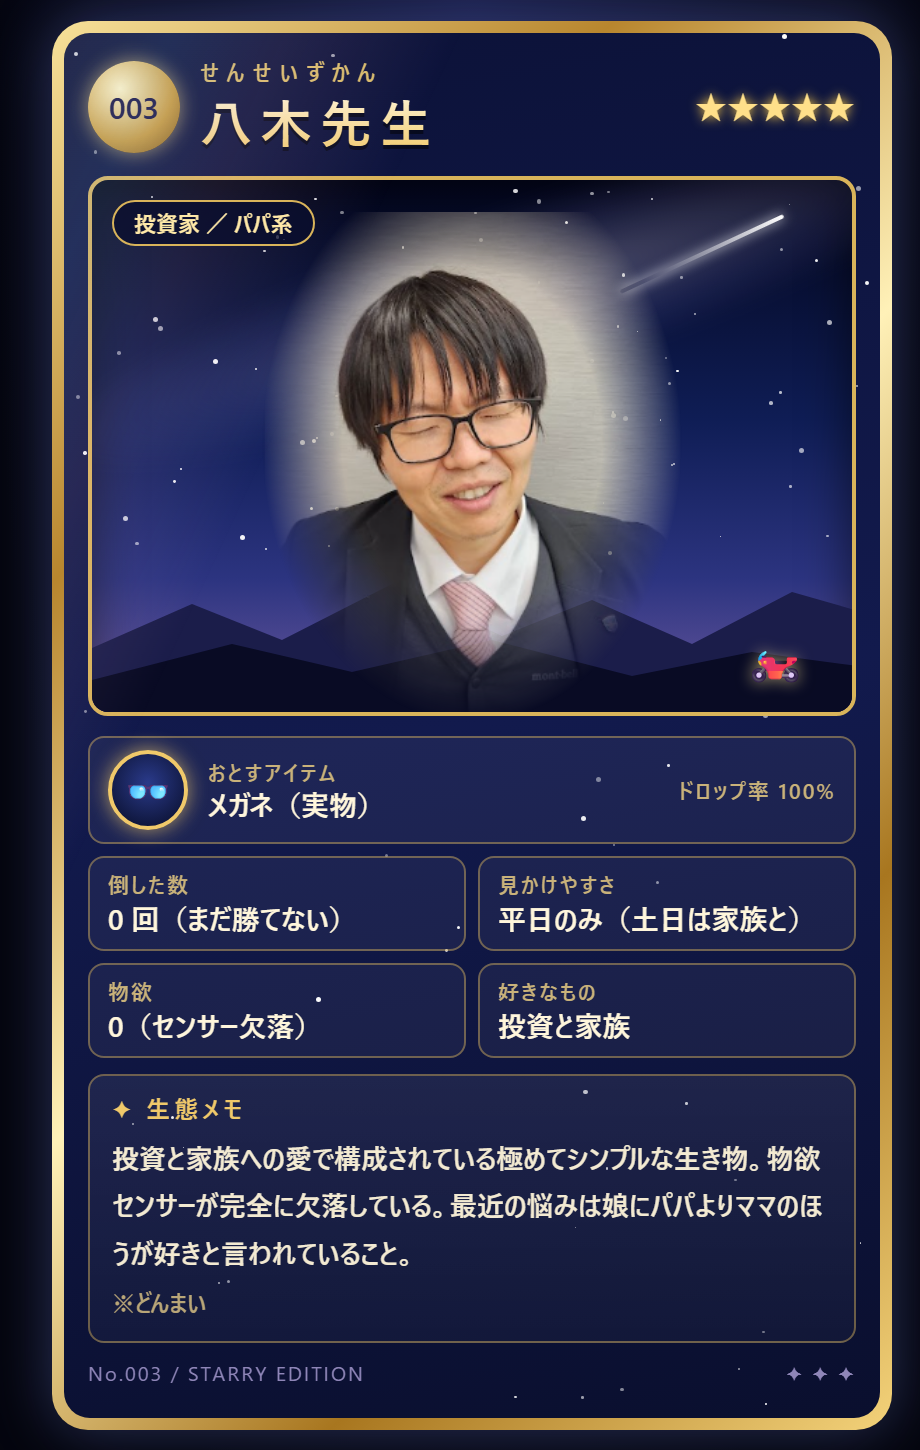
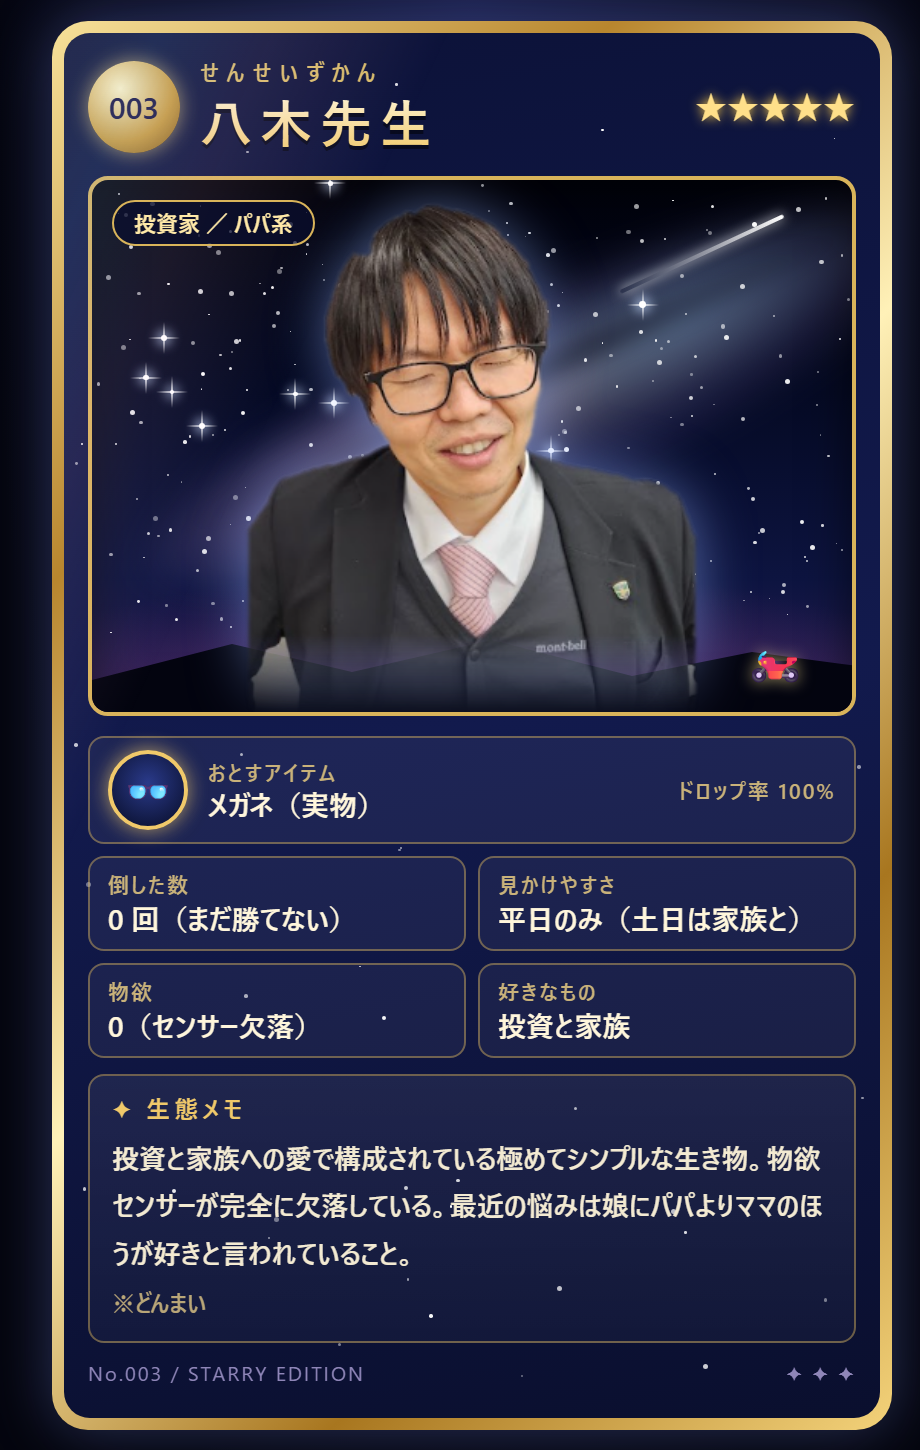
Add art and profiles for all 8 teachers, add 加藤先生
- Starry 図鑑 cards and cut-out battle sprites for every teacher
  (new realistic sky, cut-outs replace the gray photo halo)
- Intro text, voice lines and each teacher's own drop item
- New 8th teacher 加藤先生 (item 手挽きコーヒーミル, 合言葉 こーひー)

Changed region(s): [[0.0913, 0.1241, 0.9435, 0.4966], [0.3348, 0.1241, 0.3652, 0.1552]]

diff --git a/app/game-data.ts b/app/game-data.ts
@@ -36,13 +36,14 @@ export type ItemDef = {
 export const ITEMS: ItemDef[] = [
   { id: "candy", name: "ふしぎなアメ", emoji: "🍬", rarity: "N", description: "どの先生もポケットに入れている。" },
   { id: "badge", name: "探検家バッジ", emoji: "📛", rarity: "N", description: "会場を歩き回った証。" },
-  { id: "whistle", name: "ホイッスル", emoji: "📯", rarity: "R", description: "ピッと鳴らすと背筋がのびる。" },
+  { id: "whistle", name: "睡眠薬", emoji: "⚡", rarity: "R", description: "どう見てもエナジードリンク。なぜか大澤先生にはよく効く。" },
   { id: "flask", name: "メガネ", emoji: "👓", rarity: "R", description: "八木先生が実際にかけているメガネ。" },
-  { id: "compass", name: "コンパス", emoji: "🧭", rarity: "R", description: "きれいな円が描ける。" },
-  { id: "apron", name: "エプロン", emoji: "🧺", rarity: "R", description: "ほんのりカレーのにおいがする。" },
-  { id: "brush", name: "書道の筆", emoji: "🖌", rarity: "R", description: "とめ・はね・はらい。" },
-  { id: "passport", name: "パスポート", emoji: "🛂", rarity: "R", description: "どこへでも行けそうな気がする。" },
+  { id: "compass", name: "ビデオカメラ", emoji: "📹", rarity: "R", description: "柴田先生の相棒。何を撮っているのかは謎。" },
+  { id: "apron", name: "ペンライト", emoji: "💖", rarity: "R", description: "大橋先生の推し活の必需品。" },
+  { id: "brush", name: "愛犬のキーホルダー", emoji: "🐕", rarity: "R", description: "鈴木先生の愛犬、ボーダーコリー2匹のキーホルダー。" },
+  { id: "passport", name: "息子の大切なおもちゃ", emoji: "🚂", rarity: "R", description: "二村先生の息子さんの宝物。大事にあつかおう。" },
   { id: "wrench", name: "星空の写真", emoji: "🌌", rarity: "R", description: "狩野先生がドライブ先で撮った一枚。" },
+  { id: "coffee-mill", name: "手挽きコーヒーミル", emoji: "☕", rarity: "R", description: "加藤先生の優雅な時間はここから始まる。" },
   { id: "crown", name: "教頭の王冠", emoji: "👑", rarity: "SR", description: "選ばれし探検家だけが手にする。" },
 ];
 
@@ -82,9 +83,12 @@ export const BOSSES: BossDef[] = [
     attackPercent: 8,
     gold: [30, 50],
     drops: drops("brush"),
-    description: "（紹介文を入れてください）",
-    voice: "（セリフを入れてください）",
+    description:
+      "2匹のボーダーコリーを愛する無類の動物好き。シルエットゆえに、見つけづらいと言われており、構内での目撃情報は貴重。",
+    voice: "うちのボーダーコリー、2匹ともかわいいんですよ。",
     skill: { name: "言霊", description: "攻撃力が上がる", boostPerLevel: { attack: 2 } },
+    image: "/teachers/suzuki.png",
+    card: "/teachers/suzuki-card.png",
   },
   {
     id: "osawa",
@@ -95,9 +99,12 @@ export const BOSSES: BossDef[] = [
     attackPercent: 10,
     gold: [30, 50],
     drops: drops("whistle"),
-    description: "（紹介文を入れてください）",
-    voice: "（セリフを入れてください）",
+    description:
+      "毎日Red bullを一本注入して稼働している。しかし、翼を授かったまま普通に熟睡できることが判明。カフェインへの耐性はS+。",
+    voice: "一本飲んだので、今からちょっと寝ます。",
     skill: { name: "全力ダッシュ", description: "回避が速くなる", boostPerLevel: { dodgeCooldownMs: -250 } },
+    image: "/teachers/osawa.png",
+    card: "/teachers/osawa-card.png",
   },
   {
     id: "yagi",
@@ -124,9 +131,12 @@ export const BOSSES: BossDef[] = [
     attackPercent: 9,
     gold: [30, 50],
     drops: drops("apron"),
-    description: "（紹介文を入れてください）",
-    voice: "（セリフを入れてください）",
+    description:
+      "推し（アイドル）が生きがい。主食はうどんで、高崎駅の丸亀製麺にて麺をすする姿がたびたび目撃されている。",
+    voice: "推しのライブの日は、うどん大盛りで気合いを入れます！",
     skill: { name: "やりくり上手", description: "ゴールドとレア率が上がる", boostPerLevel: { goldBonus: 10, rareBonus: 10 } },
+    image: "/teachers/ohashi.png",
+    card: "/teachers/ohashi-card.png",
   },
   {
     id: "shibata",
@@ -137,9 +147,11 @@ export const BOSSES: BossDef[] = [
     attackPercent: 12,
     gold: [40, 60],
     drops: drops("compass"),
-    description: "（紹介文を入れてください）",
-    voice: "（セリフを入れてください）",
+    description: "キャンプとBBQが大好きなアウトドアタイプ。",
+    voice: "今度のキャンプも、ぜんぶビデオに撮っておきますね。",
     skill: { name: "最適解", description: "回避が速くなる", boostPerLevel: { dodgeCooldownMs: -300 } },
+    image: "/teachers/shibata.png",
+    card: "/teachers/shibata-card.png",
   },
   {
     id: "futamura",
@@ -150,9 +162,12 @@ export const BOSSES: BossDef[] = [
     attackPercent: 10,
     gold: [30, 50],
     drops: drops("passport"),
-    description: "（紹介文を入れてください）",
-    voice: "（セリフを入れてください）",
+    description:
+      "最近楽しみにしていることは息子さんとの散歩。息子さんはトミカとプラレールにはまっているらしい。",
+    voice: "次のブームは、絶対に仮面ライダーだと思うんですよね。",
     skill: { name: "グローバル", description: "レア率が上がる", boostPerLevel: { rareBonus: 15 } },
+    image: "/teachers/futamura.png",
+    card: "/teachers/futamura-card.png",
   },
   {
     id: "kano",
@@ -169,6 +184,22 @@ export const BOSSES: BossDef[] = [
     skill: { name: "ものづくり", description: "攻撃力とゴールドが上がる", boostPerLevel: { attack: 1, goldBonus: 5 } },
     image: "/teachers/kano.png",
     card: "/teachers/kano-card.png",
+  },
+  {
+    id: "kato",
+    name: "加藤先生",
+    emoji: "🧑🏫",
+    subject: "加藤",
+    hp: 60,
+    attackPercent: 10,
+    gold: [30, 50],
+    drops: drops("coffee-mill"),
+    description:
+      "豆を挽くところから始める本格派。香りや過程そのものを楽しむ優雅な生息スタイル。",
+    voice: "まずは豆を挽くところから始めましょうか。",
+    skill: { name: "じっくり抽出", description: "回避が速くなりレア率が上がる", boostPerLevel: { dodgeCooldownMs: -150, rareBonus: 8 } },
+    image: "/teachers/kato.png",
+    card: "/teachers/kato-card.png",
   },
 ];
 
@@ -346,6 +377,7 @@ export const BOSS_CODEWORDS: Record<string, string> = {
   shibata: "けいさん",
   futamura: "はろー",
   kano: "はぐるま",
+  kato: "こーひー",
 };
 
 export function normalizeCodeword(text: string) {

diff --git a/app/explore.tsx b/app/explore.tsx
@@ -21,6 +21,7 @@ const BOSS_OFFSETS: Record<string, [number, number]> = {
   shibata: [0.0009, -0.0002],
   futamura: [-0.0002, 0.001],
   kano: [0.0005, 0.0009],
+  kato: [-0.0009, 0.0002],
 };
 
 // label is our own data (boss names), never user input, so it is safe to inline as HTML
